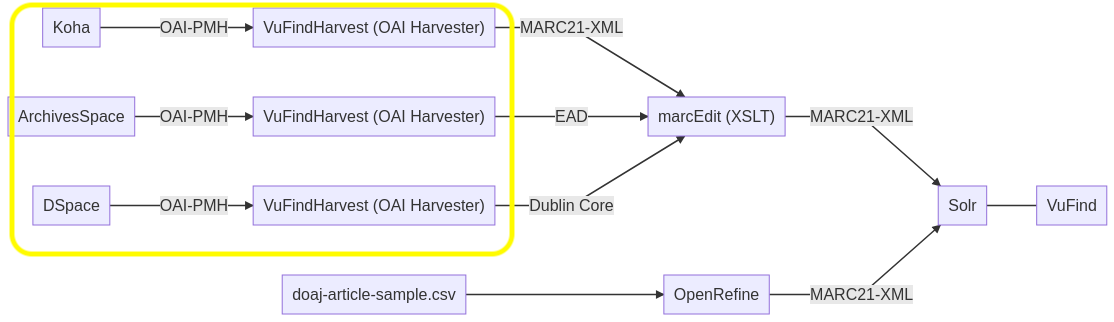
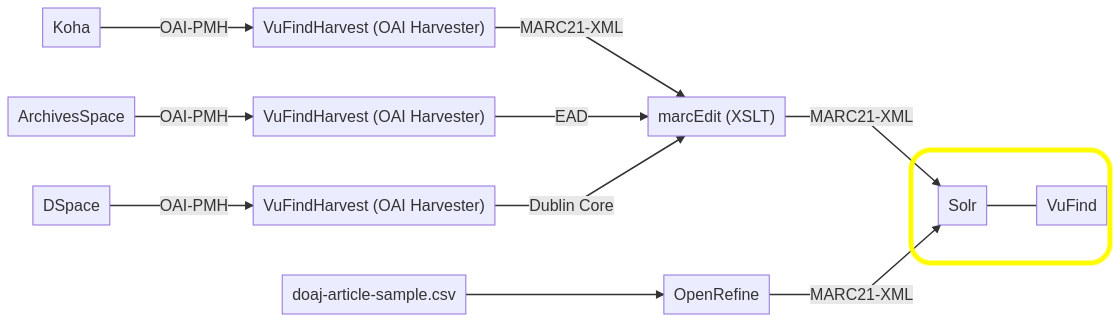
change image

Changed region(s): [[0.0, 0.0, 0.4578, 0.8075], [0.7935, 0.4348, 1.0, 0.8385], [0.4578, 0.0621, 0.4883, 0.7453]]

diff --git a/_posts/2024-05-07-tag6.0.md b/_posts/2024-05-07-tag6.0.md
@@ -15,10 +15,14 @@ Um selbstständig mal Metadaten über das Austauschprotokoll **OAI-PMH** zu harv
 
 Der gelb markierte Bereich zeigt nochmals den Import von Metadaten aus einem der drei Systeme — Koha, ArchivesSpace oder DSpace — in VuFindHarvest über das OAI-PMH-Austauschprotokoll.
 
-![Schaubild Vorlesung](image.png)
+![Schaubild Vorlesung](assets/image.png)
+![alt text][def]
+
 
 ## Konvertierung
 
 Mit den gerade importierten Daten wird nun weitergearbeitet, diese sollen in einem weiteren Schritt aus ihren verschiedenen Ursprungsformaten einheitlich in das Datenformat MARC21-XML konvertiert werden. Dieser Prozess der Konvertierung unterschiedlicher Datenformate in ein einheitliches Format wird im Bibliotheks- und Archivwesen auch als *Crosswalk* bezeichnet.
 
 Für die Konvertierung verwenden wir XSLT, das ist eine geeignete Programmiersprache für die Transformation von XML Dokumente. Die Libary of Congress bietet ein [Mapping](https://www.loc.gov/marc/marc2dc.html) an, in dem definiert wird, welche Felder beispielsweise von MARC21 in welche Felder von Dublin Core kopiert werden sollen. Für diese vordefinierten Regeln aus dem Mapping verwenden wir ein XSL Stylesheet (auch von der Libary of Congress), welches für die Transformation in einem [Transformationstool](http://xsltransform.net/) angewendet werden kann. Die zu transformierenden Ausgangsdaten sowie das XSL Stylesheet können in das Transformationstool eingefügt werden. Nach der Verarbeitung erhalten wir die transformierten Daten zurück. Für ein komplexeres XSL ist [MarcEdit](https://marcedit.reeset.net/) besser geeignet als das einfache Transformationstools [XSL Transform](http://xsltransform.net/). 
+
+[def]: assets/image.png
